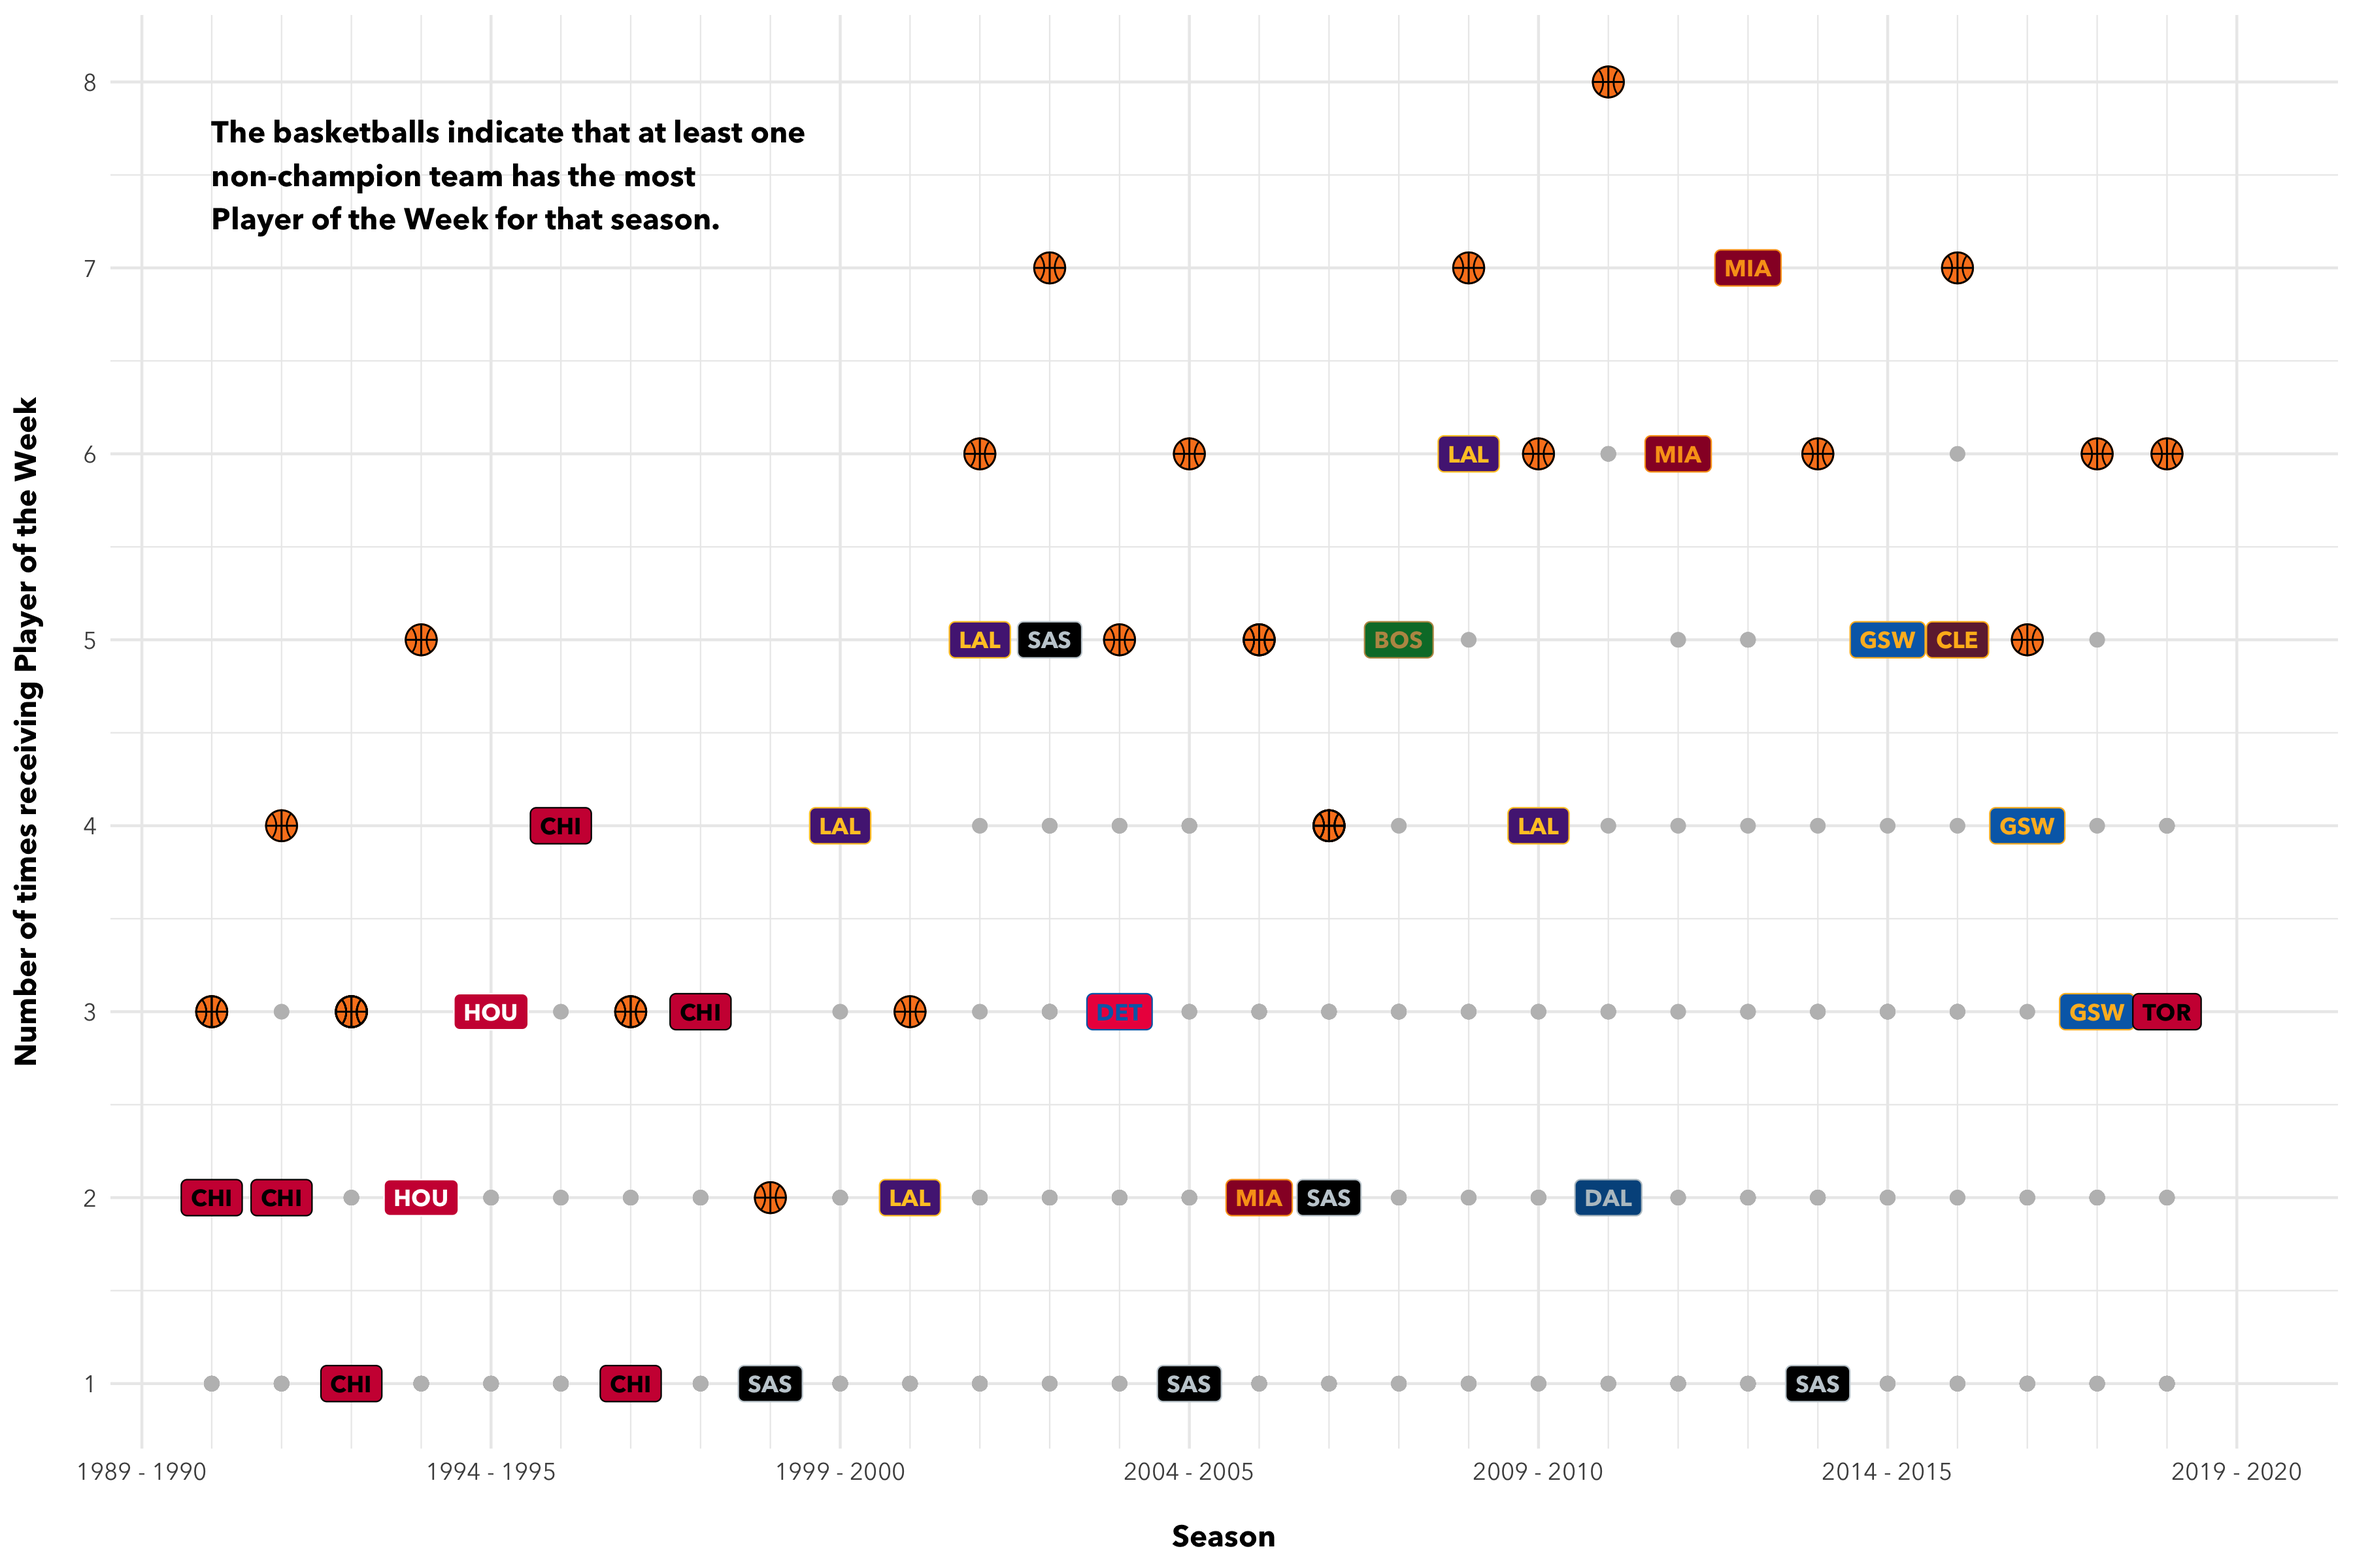
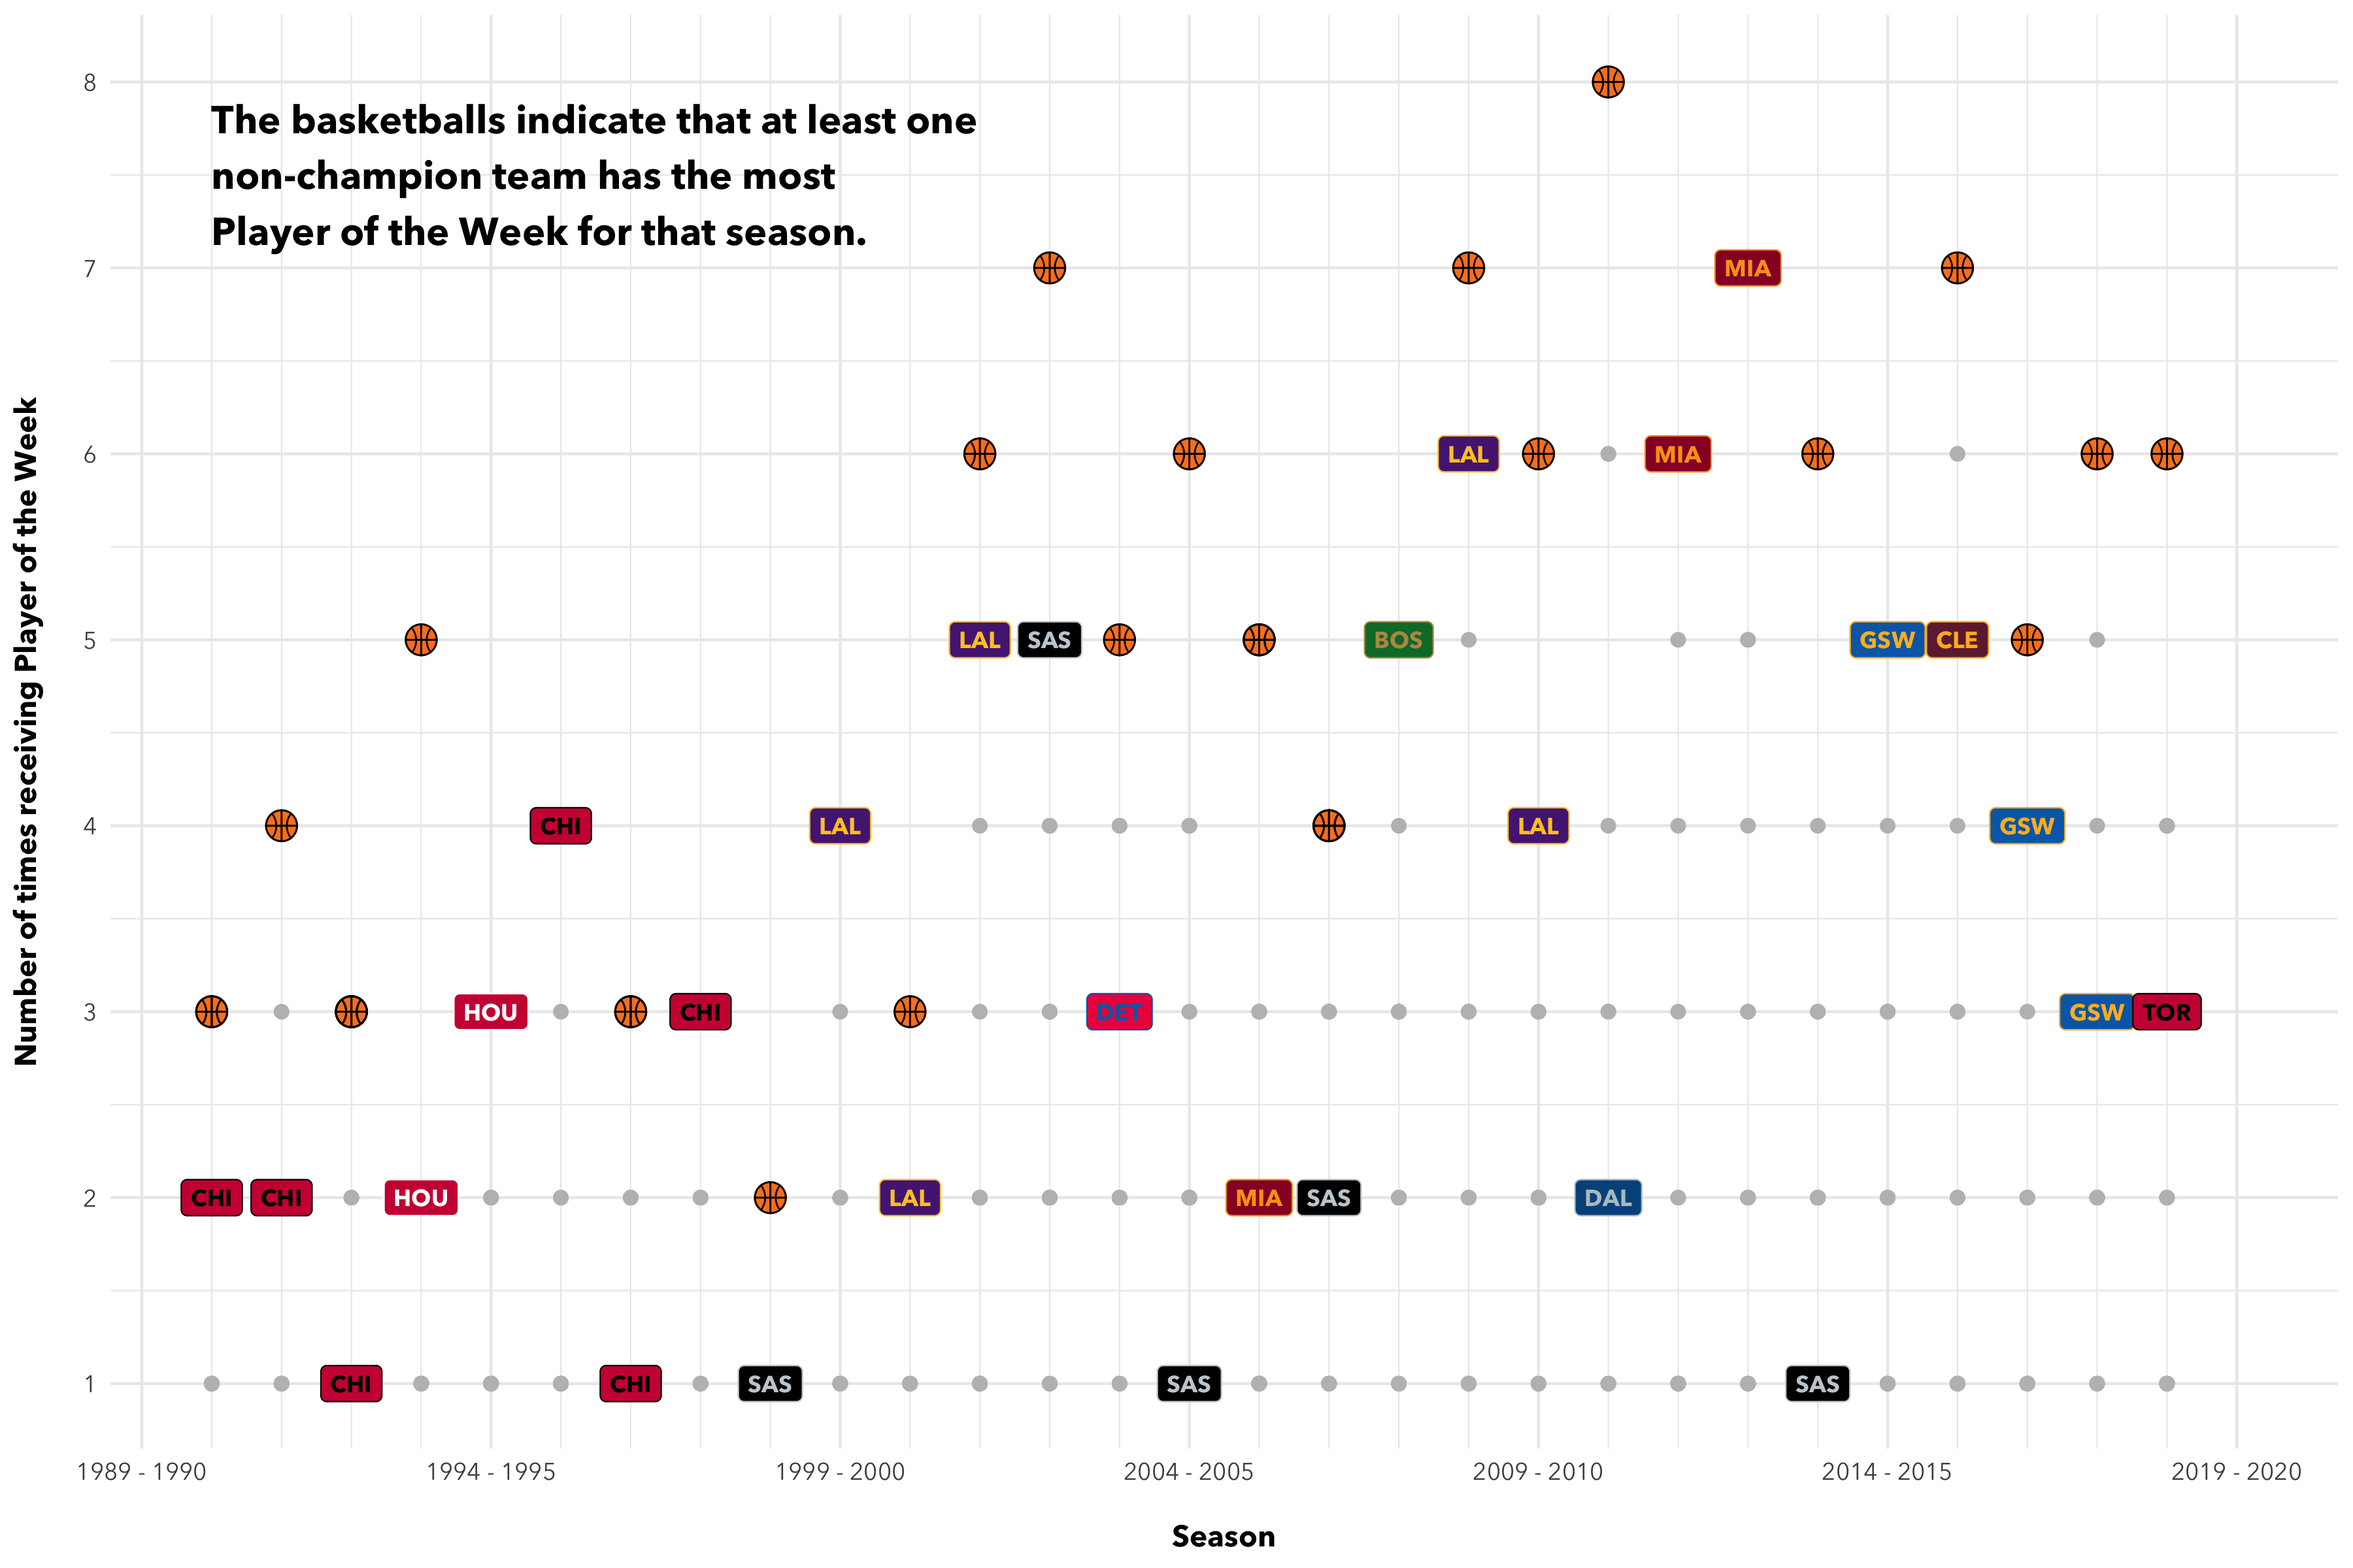
Update ggplot 3

Changed region(s): [[0.0933, 0.0625, 0.4044, 0.1562]]

diff --git a/html/_ggplot_3.html b/html/_ggplot_3.html
@@ -13467,7 +13467,7 @@ div#notebook {
 <span class="nf">new_scale_color</span><span class="p">()</span> <span class="o">+</span>
 <span class="nf">geom_label</span><span class="p">(</span><span class="nf">aes</span><span class="p">(</span><span class="n">x</span> <span class="o">=</span> <span class="n">Year</span><span class="p">,</span> <span class="n">y</span> <span class="o">=</span> <span class="n">Potw_Count</span><span class="p">,</span> <span class="n">color</span> <span class="o">=</span> <span class="n">Team</span><span class="p">,</span> <span class="n">fill</span> <span class="o">=</span> <span class="n">Team</span><span class="p">,</span> <span class="n">label</span> <span class="o">=</span> <span class="n">Abb</span><span class="p">),</span>
            <span class="n">data</span> <span class="o">=</span> <span class="n">nba_champ</span><span class="p">,</span> <span class="n">size</span> <span class="o">=</span> <span class="m">3</span><span class="p">,</span> <span class="n">family</span> <span class="o">=</span> <span class="s">&#39;Avenir Next&#39;</span><span class="p">,</span> <span class="n">fontface</span> <span class="o">=</span> <span class="s">&#39;bold&#39;</span><span class="p">)</span> <span class="o">+</span>
-<span class="nf">annotate</span><span class="p">(</span><span class="s">&#39;text&#39;</span><span class="p">,</span> <span class="n">x</span> <span class="o">=</span> <span class="m">1991</span><span class="p">,</span> <span class="n">y</span> <span class="o">=</span> <span class="m">7.5</span><span class="p">,</span> <span class="n">label</span> <span class="o">=</span> <span class="n">annotate_msg</span><span class="p">,</span>
+<span class="nf">annotate</span><span class="p">(</span><span class="s">&#39;text&#39;</span><span class="p">,</span> <span class="n">x</span> <span class="o">=</span> <span class="m">1991</span><span class="p">,</span> <span class="n">y</span> <span class="o">=</span> <span class="m">7.5</span><span class="p">,</span> <span class="n">label</span> <span class="o">=</span> <span class="n">annotate_msg</span><span class="p">,</span> <span class="n">size</span> <span class="o">=</span> <span class="m">5</span><span class="p">,</span>
          <span class="n">family</span> <span class="o">=</span> <span class="s">&#39;Avenir Next&#39;</span><span class="p">,</span> <span class="n">fontface</span> <span class="o">=</span> <span class="s">&#39;bold&#39;</span><span class="p">,</span> <span class="n">hjust</span> <span class="o">=</span> <span class="s">&#39;left&#39;</span><span class="p">,</span> <span class="n">vjust</span> <span class="o">=</span> <span class="s">&#39;middle&#39;</span><span class="p">)</span> <span class="o">+</span>
 <span class="nf">scale_color_manual</span><span class="p">(</span><span class="n">values</span> <span class="o">=</span> <span class="n">nba_ggplot_color</span><span class="p">)</span> <span class="o">+</span>
 <span class="nf">scale_fill_manual</span><span class="p">(</span><span class="n">values</span> <span class="o">=</span> <span class="n">nba_ggplot_fill</span><span class="p">)</span> <span class="o">+</span>
